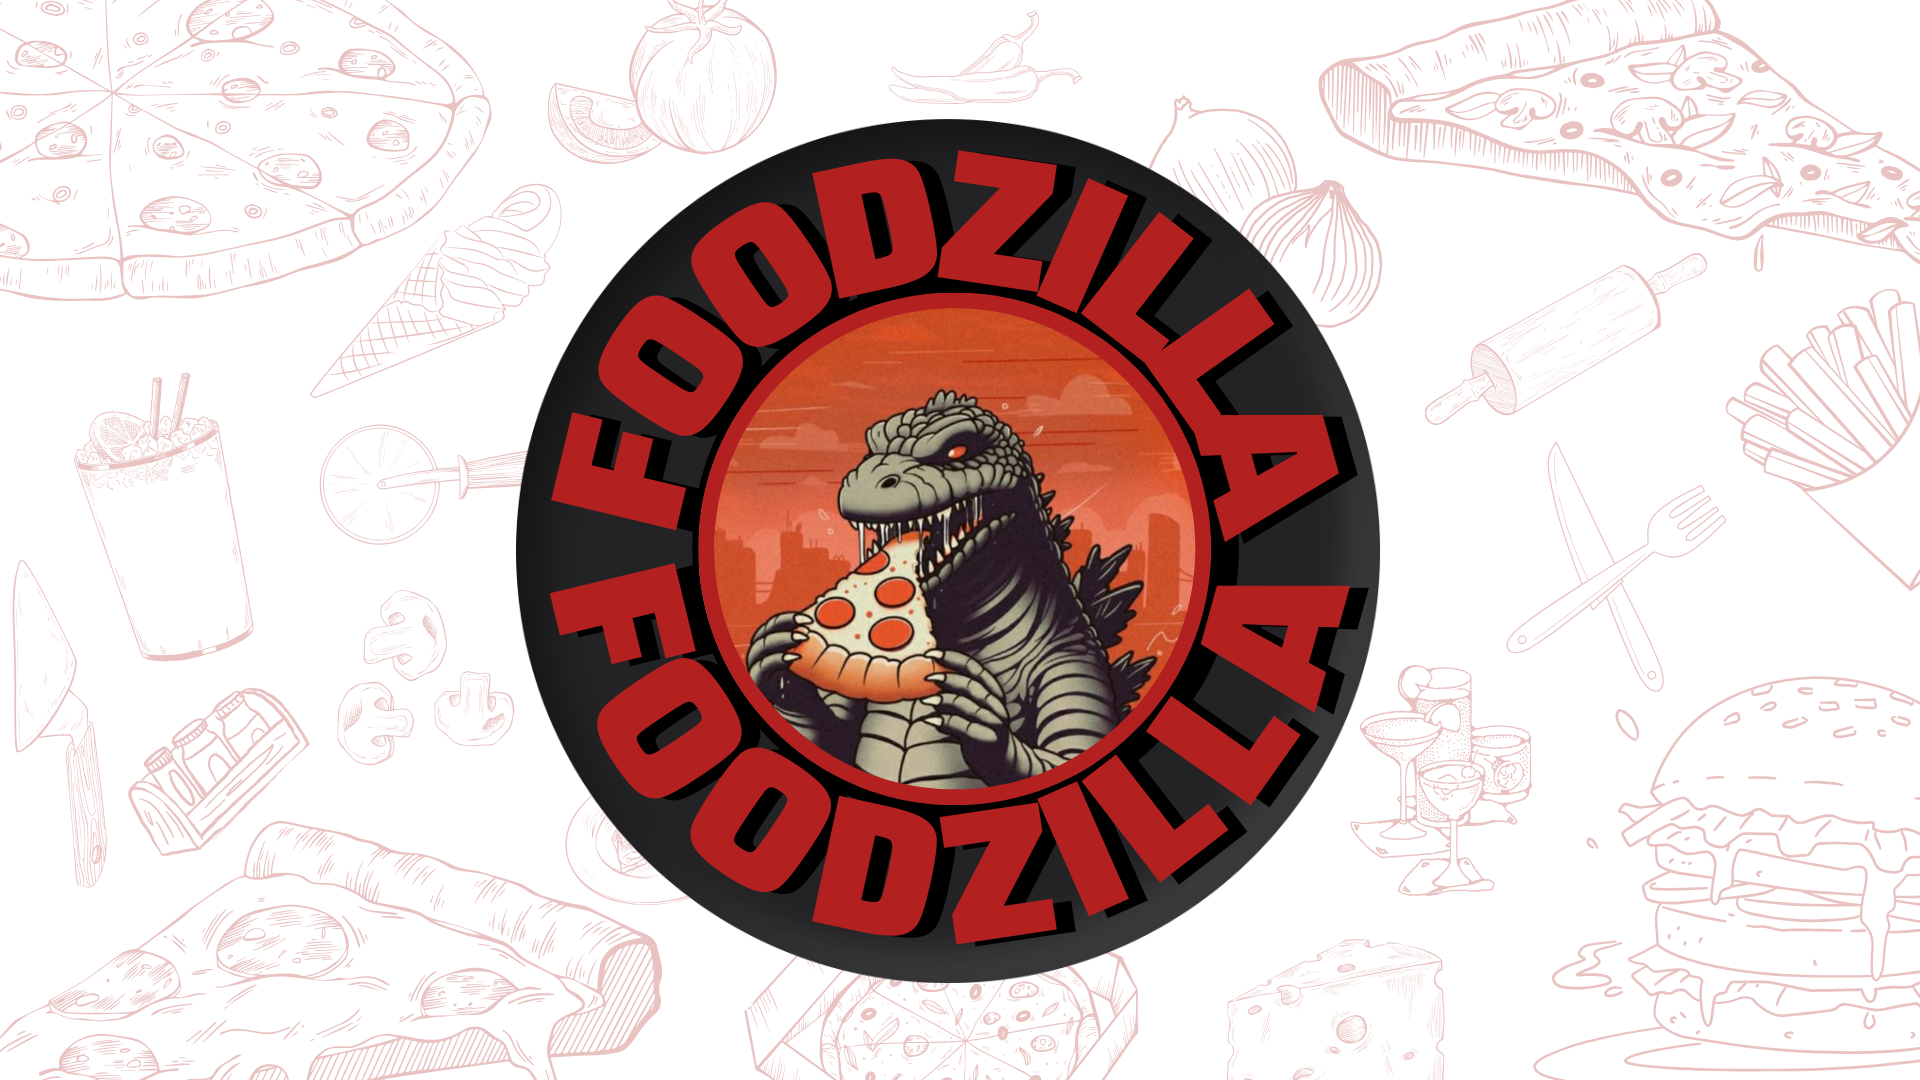
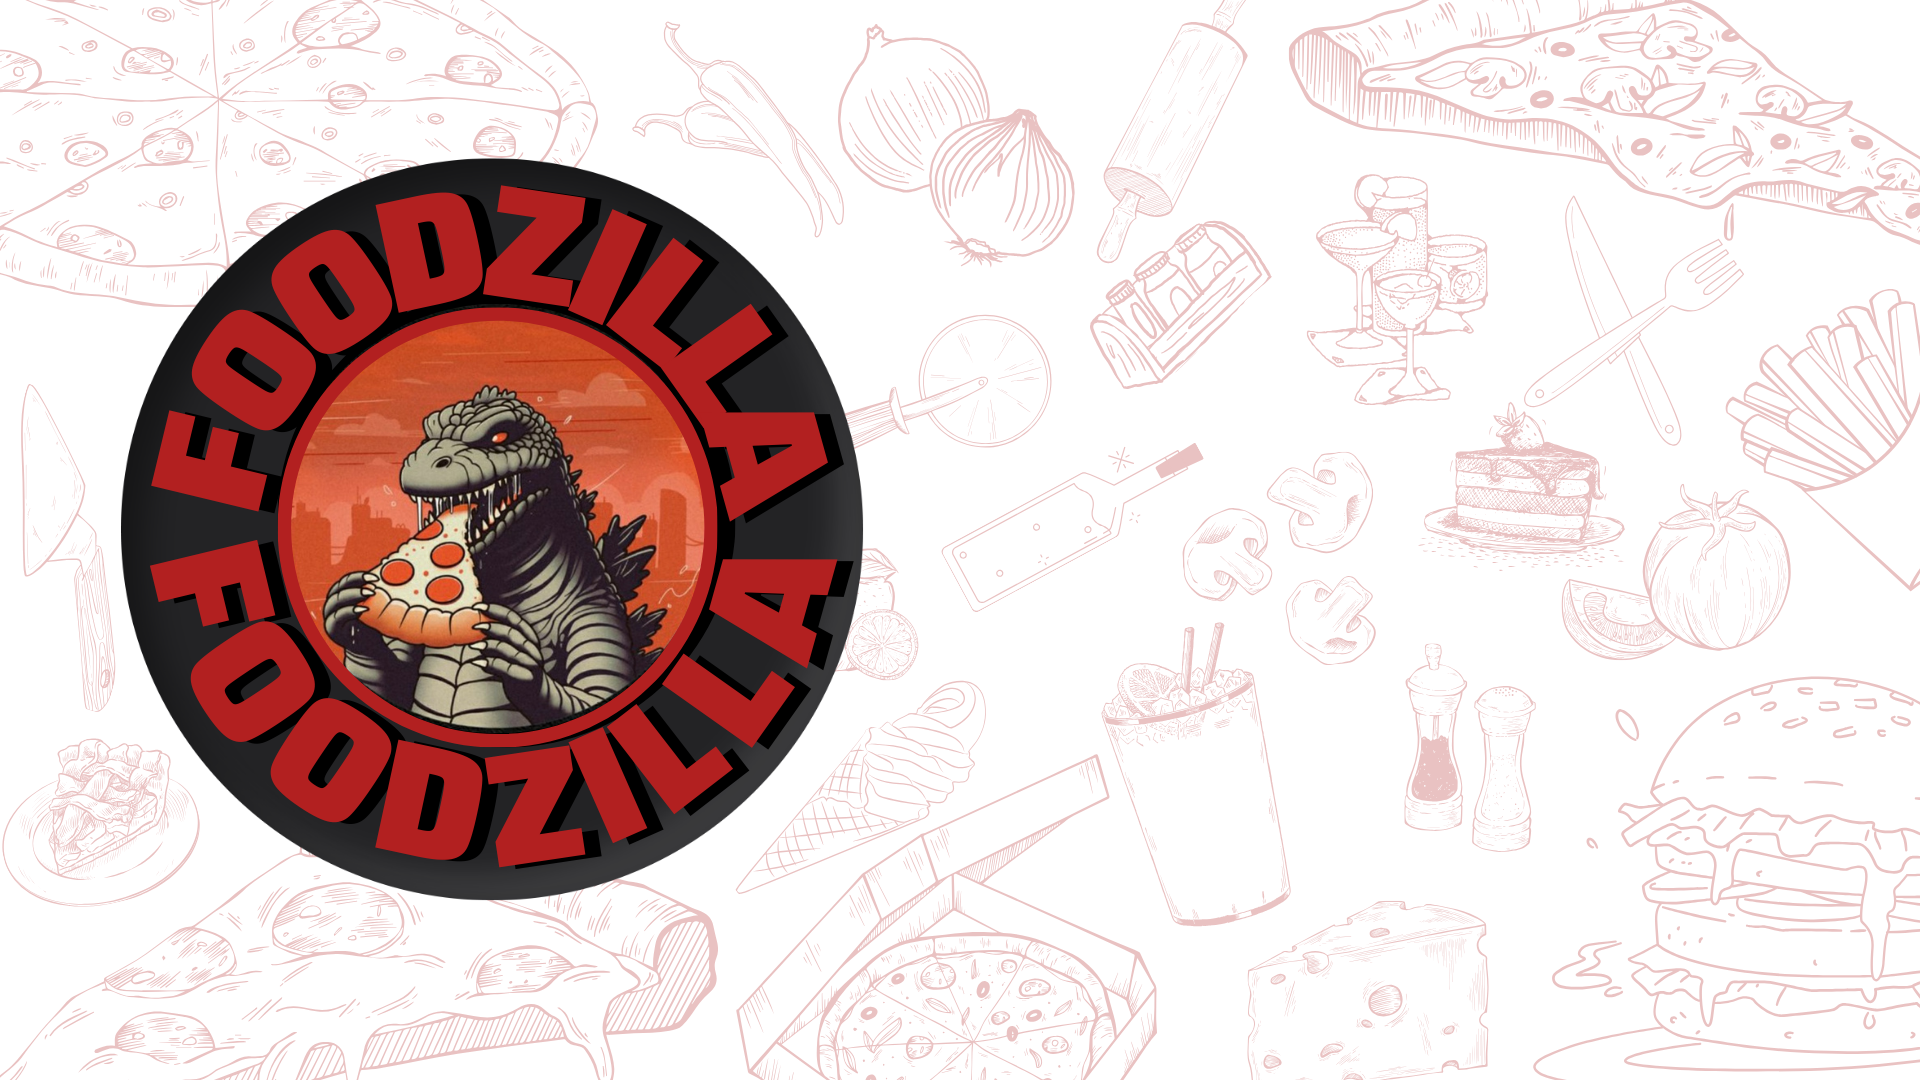
mudanças no css

diff --git a/register/index.html b/register/index.html
@@ -25,12 +25,20 @@
                     </div>
                     <ul class="nav-list">
                         <li><a href="/menu/index.html">Menu</a></li>
-                        <li><a href="">Perfil</a></li>
+                        <li><a href="/dados/index.html">Perfl</a></li>
                         <li><a href="/cart/index.html">Carrinho</a></li>
                     </ul>
                 </nav>
             </div>
             <div class="div-logo">
+                <div class="container-wrapper">
+                    <div class="container">
+                        <div class="input-wrapper">
+                            <input placeholder="Pesquisar..."/>
+                            <i class="fa fa-search"></i>
+                        </div>
+                    </div>
+                </div>
                 <img class="img-logo" src="/FoodZillaLogo.PNG" alt="LogoPizzaria">
             </div>
             <div class="div-interact">

diff --git a/register/style.css b/register/style.css
@@ -1,33 +1,35 @@
-body{
-    background-image: url();
+body {
+    background-image: url(/FOODZILLAusuário.png);
 }
-#div-dados{
+
+#div-dados {
     display: flex;
     flex-direction: row;
     position: absolute;
-    left: 50%;
-    transform: translate(-50%);
+    right: 30%;
+    transform: translate(50%);
     margin: 10px;
     width: max-content;
-    background-color: rgba(255, 255, 255, 0.712);
+    background-color: rgba(217, 217, 217, 0.726);
     border-radius: 16px;
 }
-#div-forms{
+
+#div-forms {
     display: flex;
     flex-direction: column;
     margin: 10px;
     border-radius: 10px;
 }
-div{
+
+div {
     display: flex;
     flex-direction: row;
 }
-header{
+
+header {
     margin-bottom: 20vh;
 }
-a{
-    color: black;
-}
-.input-submit{
+
+.input-submit {
     width: 100%;
 }

diff --git a/login/index.html b/login/index.html
@@ -68,8 +68,7 @@
                     <input class="input-submit" type="submit" value="Logar">
                 </div>
                 <div>
-                    <label for="a-signup">Não possui cadastro? Clique <a id="a-signup"
-                            href="/register/index.html">AQUI</a></label>
+                    <h4>Não possui cadastro? Clique <a id="a-signup" href="/register/index.html">AQUI</a></h4>
                 </div>
             </div>
         </div>

diff --git a/login/script.js b/login/script.js
@@ -9,11 +9,8 @@ async function loginUser(dados) {
         headers: myHeaders
     })
     if (login.status == 200) {
-        console.log(login)
+        console.log("chegou")
         const loginUserJson = await login.json()
-        console.log(loginUserJson)
-        toastify("Ok, login efetuado com sucesso!", "ok")
-
         setTimeout(() => {
             window.location.href = "../dados/index.html"
         }, 3000)

diff --git a/global.css b/global.css
@@ -68,8 +68,12 @@ input {
 }
 
 .div-logo {
-  margin: auto;
   text-align: left;
+  margin-left: 20px;
+}
+
+.div-menu {
+  align-items: center;
 }
 
 * {
@@ -143,7 +147,7 @@ nav {
     justify-content: space-around;
     transform: translateX(-100%);
     transition: transform 0.3s ease-out;
-}
+  }
 
   .nav-list li {
     margin-left: 0;

diff --git a/editar-dados/style.css b/editar-dados/style.css
@@ -1,6 +1,6 @@
 body{
     text-align: center;
-    background-color: #d9d9d9;
+    background-image: url(/FOODZILLAusuário.png);
 }
 #div-edit{
     display: flex;

diff --git a/login/style.css b/login/style.css
@@ -36,8 +36,9 @@ header {
     margin-bottom: 20vh;
 }
 
-a {
-    color: black;
+#a-signup {
+    color: #b22020;
+    font-size: 30px;
 }
 
 .input-submit {
